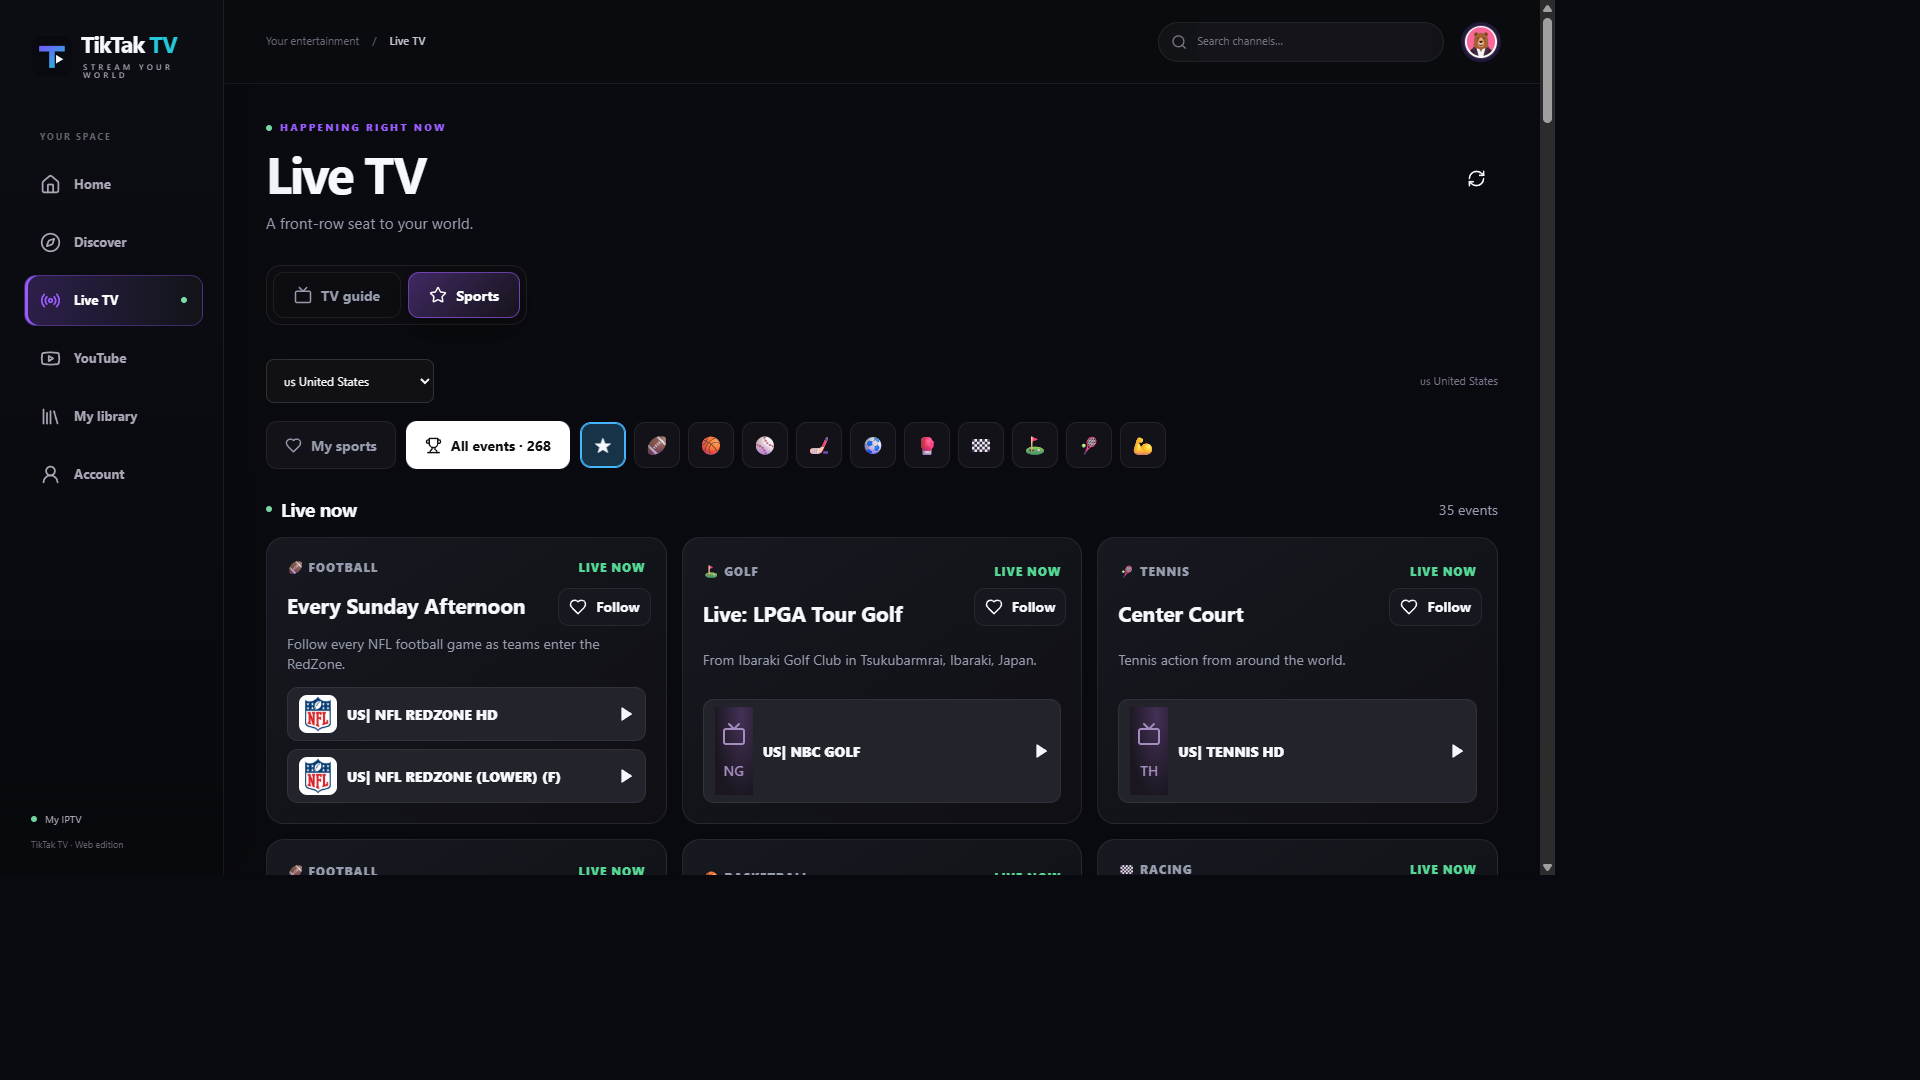
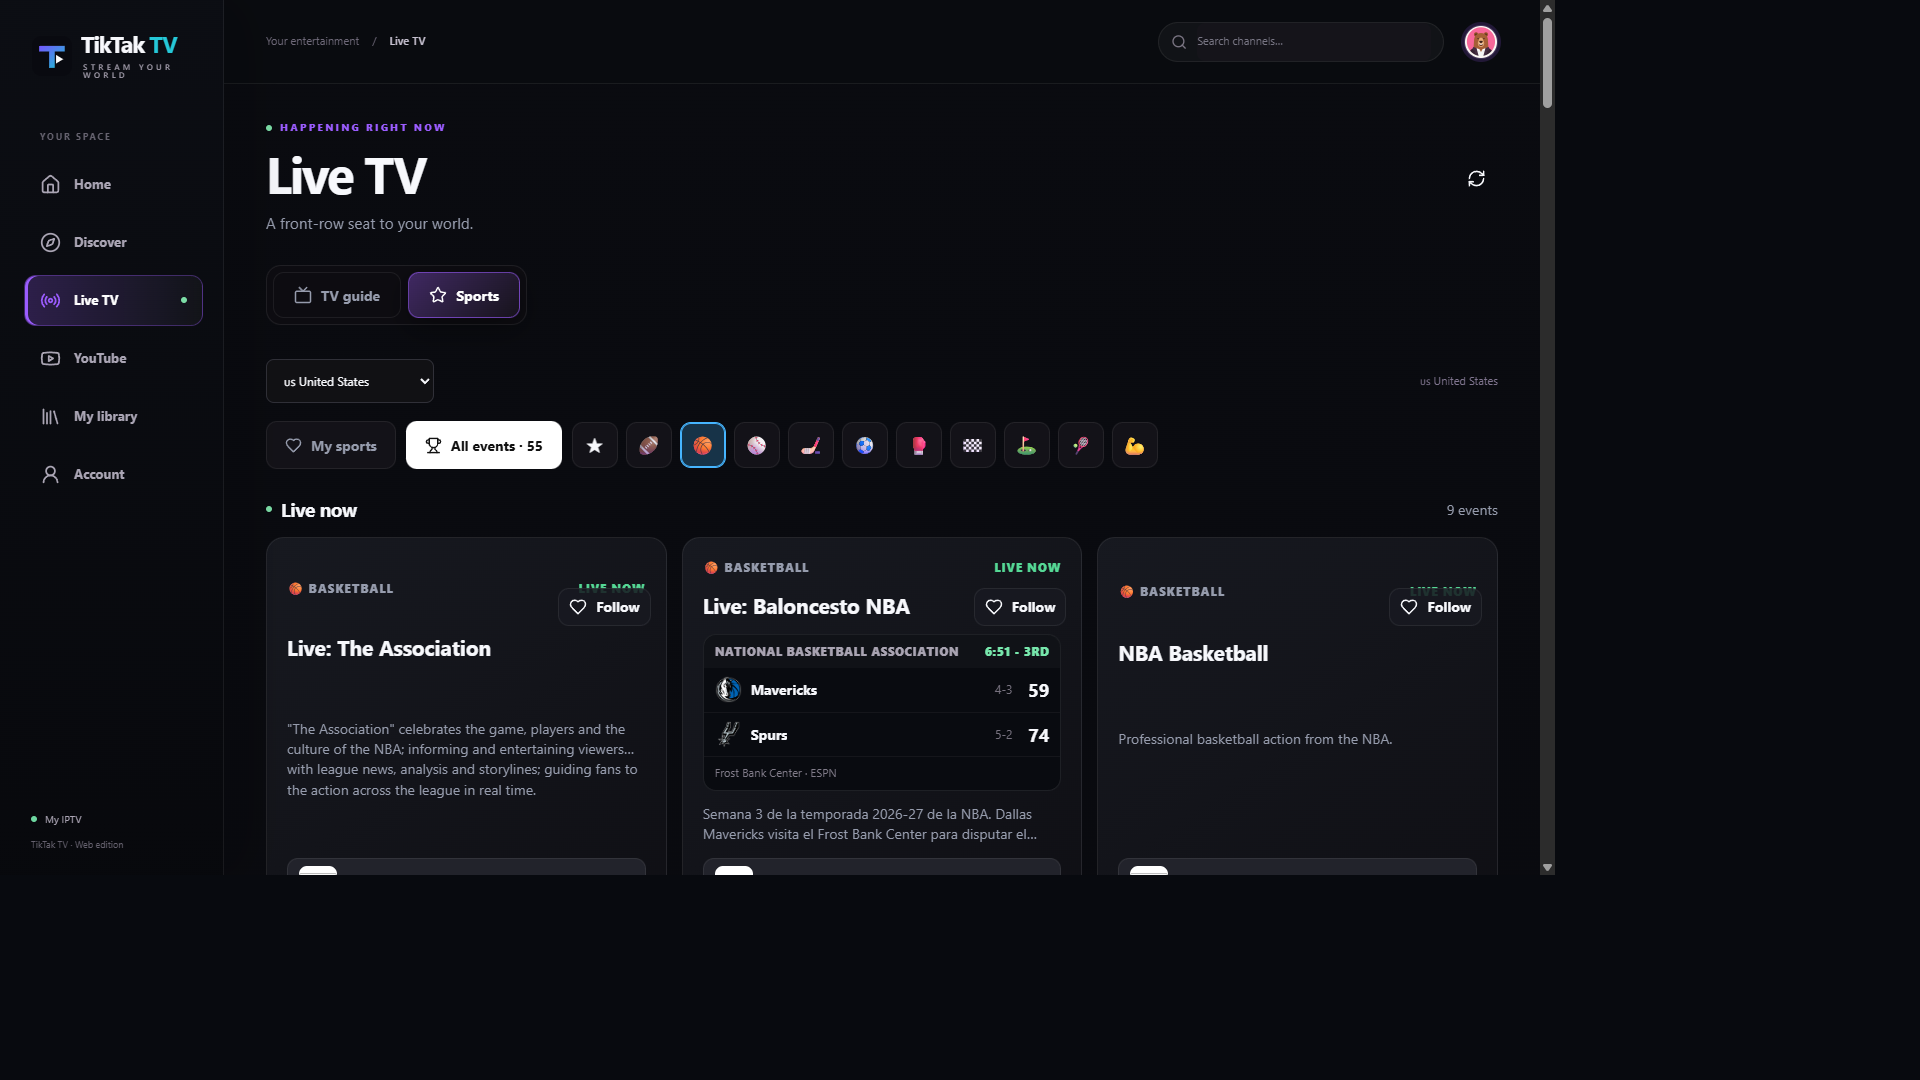
Filter false Sports guide matches

diff --git a/web/src/SportsHub.tsx b/web/src/SportsHub.tsx
@@ -141,6 +141,12 @@ export function classifySport(
   for (const sport of SPORTS)
     if (sport.words.some((word) => hasPhrase(titleText, word)))
       return sport.id;
+  const context = normalized(`${channel} ${category}`);
+  const sportsContext =
+    /\b(sport|sports|espn|ppv|redzone)\b/.test(context) ||
+    SPORTS.some((sport) =>
+      sport.words.some((word) => hasPhrase(context, word)),
+    );
   // Short guide descriptions can clarify intentionally generic event titles
   // such as NFL RedZone's "Every Sunday Afternoon". Long descriptions often
   // contain scraped site navigation or plot text with incidental sports words,
@@ -166,16 +172,16 @@ export function classifySport(
         "game|match|action|coverage|round|tournament|championship|season|league|tour|final|race|racing";
       if (
         specific ||
-        new RegExp(`\\b${phrase}\\b.{0,12}\\b(?:${eventWord})\\b`).test(
-          descriptionText,
-        ) ||
-        new RegExp(`\\b(?:${eventWord})\\b.{0,12}\\b${phrase}\\b`).test(
-          descriptionText,
-        )
+        (sportsContext &&
+          (new RegExp(`\\b${phrase}\\b.{0,12}\\b(?:${eventWord})\\b`).test(
+            descriptionText,
+          ) ||
+            new RegExp(`\\b(?:${eventWord})\\b.{0,12}\\b${phrase}\\b`).test(
+              descriptionText,
+            )))
       )
         return sport.id;
     }
-  const context = normalized(`${channel} ${category}`);
   const matchup = /\b(vs?|versus|x)\b/.test(titleText);
   if (matchup)
     for (const sport of SPORTS)

diff --git a/web/tests/sports.test.ts b/web/tests/sports.test.ts
@@ -75,6 +75,30 @@ describe("sports guide", () => {
       classifySport("Metallica: Masters of Metal", "Fuse Music"),
     ).toBeNull();
     expect(classifySport("The Masters", "CBS Sports")).toBe("golf");
+    expect(
+      classifySport(
+        "The Loud House",
+        "Teen Nick",
+        "Kids",
+        "Lynn wants to win a basketball championship but gets drafted onto a terrible team.",
+      ),
+    ).toBeNull();
+    expect(
+      classifySport(
+        "Walker, Texas Ranger",
+        "GET TV",
+        "Entertainment",
+        "Walker creates a midnight basketball league to prevent violence.",
+      ),
+    ).toBeNull();
+    expect(
+      classifySport(
+        "Center Court",
+        "Tennis Channel",
+        "Sports",
+        "Tennis action from around the world.",
+      ),
+    ).toBe("tennis");
   });
 
   it("combines the same event carried on multiple user channels", () => {
